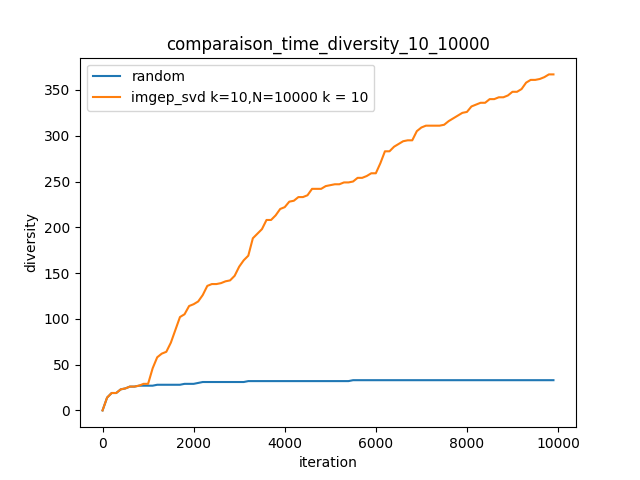
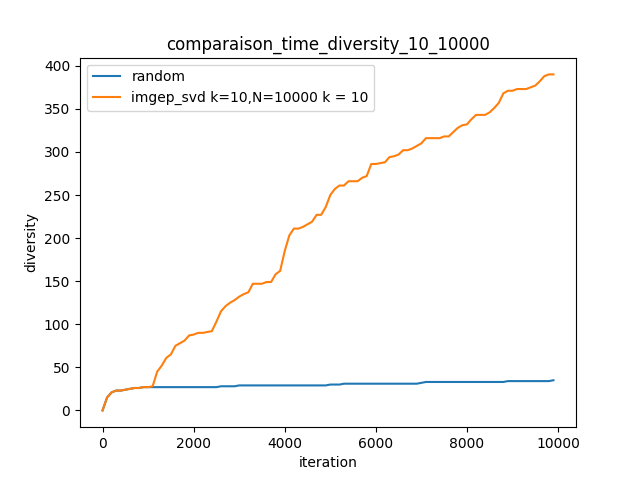
update images k 10

diff --git a/visu_svd.py b/visu_svd.py
@@ -7,7 +7,7 @@ if __name__ == "__main__":
     image_folder ="all_images/svd"
     N = int(10000)
     N_init = 1000
-    ks = [2]
+    ks = [10]
     num_bank = 4
     num_addr = 20
     file_mix = lambda k,N: f"history_weak_{k}_N_{N}_0.pkl"
